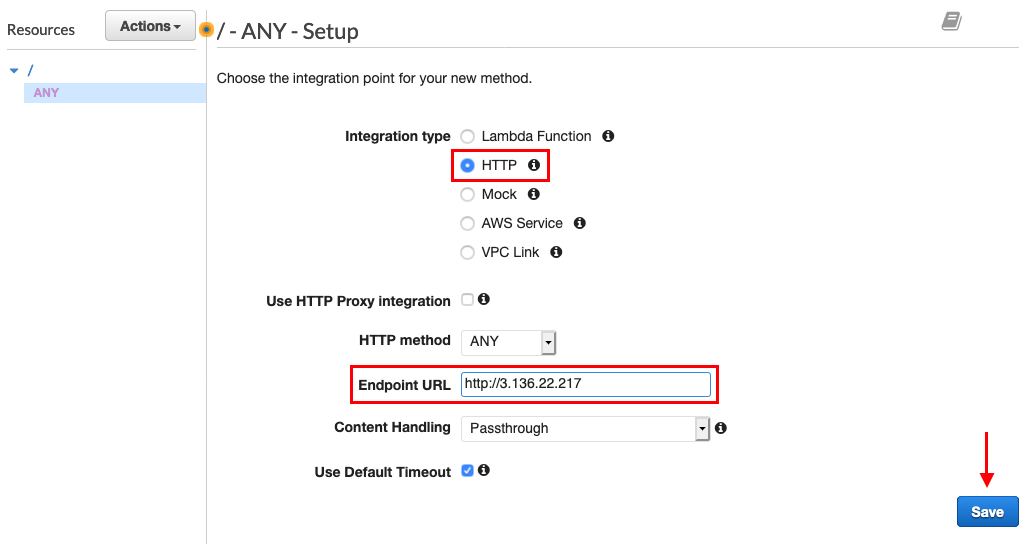
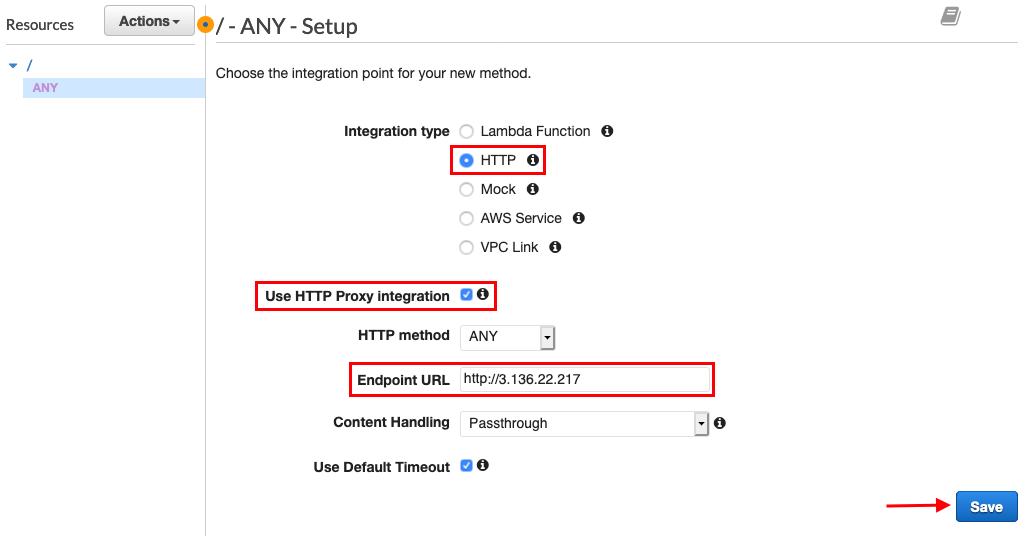
aws

diff --git a/_posts/2020-11-19-redteam-rotate-ip-aws-gateway.md b/_posts/2020-11-19-redteam-rotate-ip-aws-gateway.md
@@ -3,13 +3,13 @@ title: Rotate Source IPs (Part 1) - AWS API Gateway
 author: bigb0ss
 date: 2020-11-19 23:36:00 +0800
 categories: [RedTeam, Infrastructure, Cloud, AWS]
-tags: [aws api gateway, cloud, rotate ip, redteam]
+tags: [aws, api gateway, cloud, rotate ip, redteam]
 image: /assets/img/post/redteam/infra/cloud/aws/logo.png
 ---
 
 # Intro
 
-During a security engagement, especially for an evasive/covert type of assessment, you might need to hide your traffic as much as possible. Or the client has implemented some type of IP based blocking, you might need to rotate your source IPs to bypass it to do something like password spraying, web application enumeration, etc. Also, Microsfot is no longer considering user enumeration as their "feature". So, if you are trying to do a password guessing/user-enumeration against one of their Office365 APIs like ActiveSync or rst2.srf (SOAP API), Microsoft has implemented a defense that after a numer of queries, it will start to throw error code saying the user account is locked out whehter it is valid or invalid. To bypass this, rotating your source IPs is required. In this blog post, I will show how to use AWS API Gateway to rotate source IPs to access a target URL. 
+During a security engagement, especially for an evasive/covert type of assessment, you might need to hide your traffic as much as possible. Or if the client has implemented some type of IP based blocking, you might need to rotate your source IPs to bypass it to do something like password spraying, web application enumeration, etc. Also, Microsfot is no longer considering user enumeration as their "feature". So, if you are trying to do a password guessing/user-enumeration against one of their Office365 APIs like ActiveSync or rst2.srf (SOAP API), Microsoft has implemented a defense that after a numer of queries, it will start to throw error code saying the user account is locked out whehter it is valid or invalid. To bypass this, rotating your source IPs is required. In this blog post, I will show how to use AWS API Gateway to rotate source IPs to access a target URL. 
 
 # AWS API Gateway Setup
 
@@ -32,7 +32,6 @@ Click `New API`
 
 ![image](/assets/img/post/redteam/infra/cloud/aws/03.png)
 
-
 Click `Actions` drop-down menu
   --> Select `Create Method`
 
@@ -44,6 +43,7 @@ Select `ANY`
 ![image](/assets/img/post/redteam/infra/cloud/aws/05.png)
 
 Select `HTTP`
+  --> Check the `Use HTTP Proxy Integration`
   --> "Endpoint URL" : Your Target URL (e.g., https://mail.victim.com)
   --> Click `Save`   
 
@@ -65,7 +65,54 @@ Add “X-My-X-Forwarded-For” to `Name`
   
 ![image](/assets/img/post/redteam/infra/cloud/aws/09.png) 
 
+Click `Method Execution` to return to the previous page
 
+![image](/assets/img/post/redteam/infra/cloud/aws/10.png) 
 
+Click `Ingetration Request`
 
-—> Click “Method Execution” to return to the previous page
+![image](/assets/img/post/redteam/infra/cloud/aws/11.png) 
+
+Click the down arrow next to `HTTP Headers`
+  --> Click `Add header`
+
+![image](/assets/img/post/redteam/infra/cloud/aws/12.png)
+
+Add “X-Forwarded-For” to `Name` 
+  -—> Add a valid IP in single quote (e.g., '4.4.4.4')
+  -—> Click the check mark
+
+>**NOTE**: You can also add a valid IP of your targets to add more obfuscation.
+
+![image](/assets/img/post/redteam/infra/cloud/aws/13.png)
+
+Click `Actions` drop-down menu
+  --> Select `Deploy API`
+
+![image](/assets/img/post/redteam/infra/cloud/aws/14.png)
+
+"Deployment stage" : "[New Stage]"
+  --> "Stage name*" : Any name (e.g., login)
+  --> Click `Deploy`
+
+![image](/assets/img/post/redteam/infra/cloud/aws/15.png)
+
+Once deployed, it will create the following `Invoke URL` which is an AWS API gateway URL that will eventually redirect traffic to our endpoint (e.g., http://3.136.22.217). 
+
+![image](/assets/img/post/redteam/infra/cloud/aws/16.png)
+
+# Final Test
+
+Let's test it out if our source IPs get rotated when we are accessing `http://3.136.22.217` via `https://rsdzybrwr7.execute-api.us-east-2.amazonaws.com/login`
+
+I will be running the following command in my local box:
+
+```bash
+while true; do curl -k https://rsdzybrwr7.execute-api.us-east-2.amazonaws.com/login; done
+```
+
+And this is a web server on the EC2 (http://3.136.22.217). We can see the source IPs rotate for each request.
+
+![image](/assets/img/post/redteam/infra/cloud/aws/17.png)
+
+Thanks for reading!
